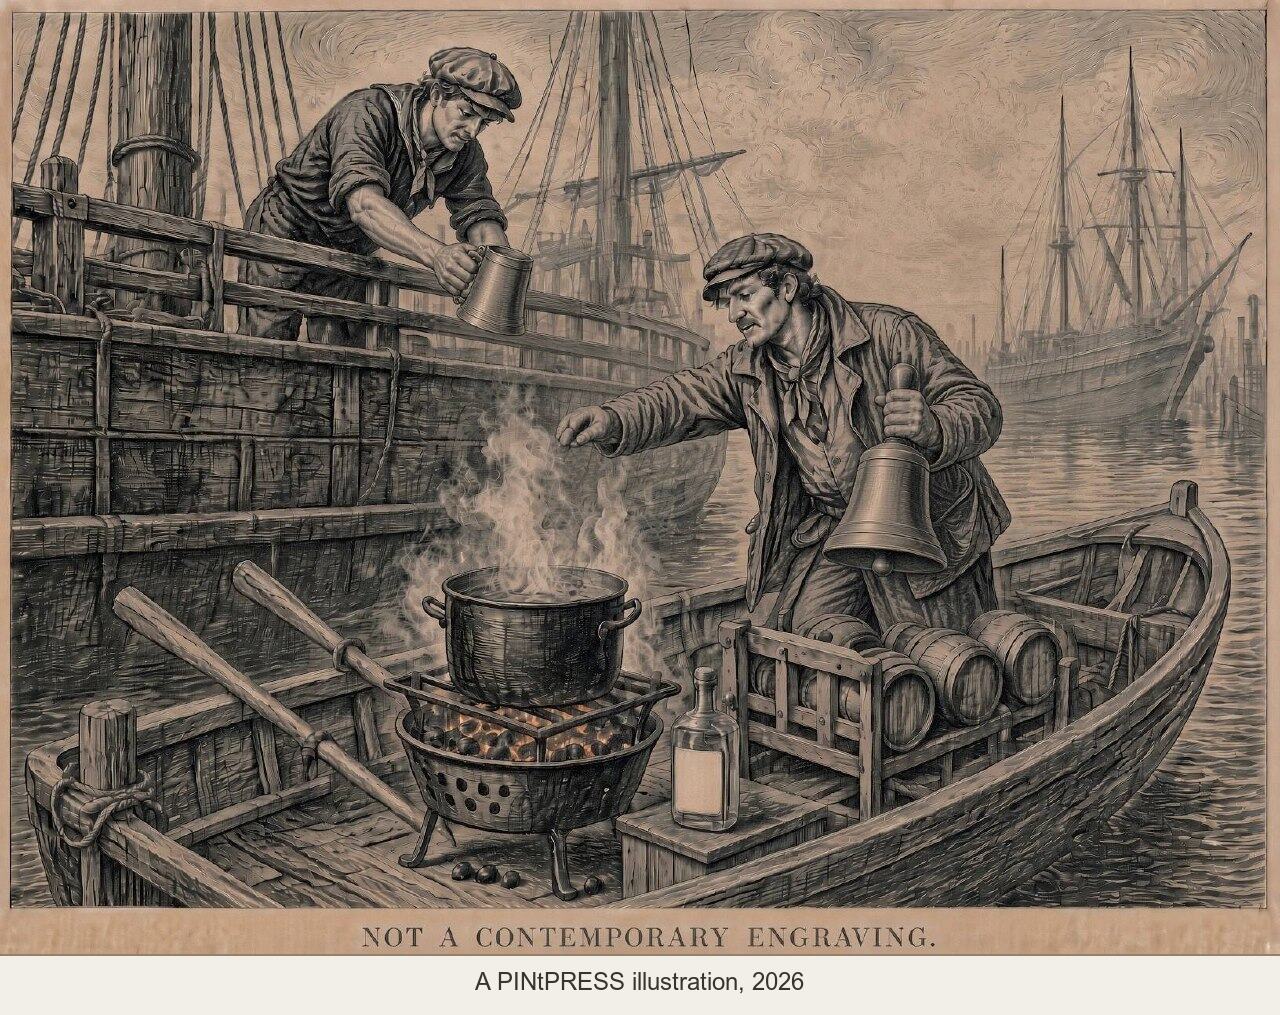
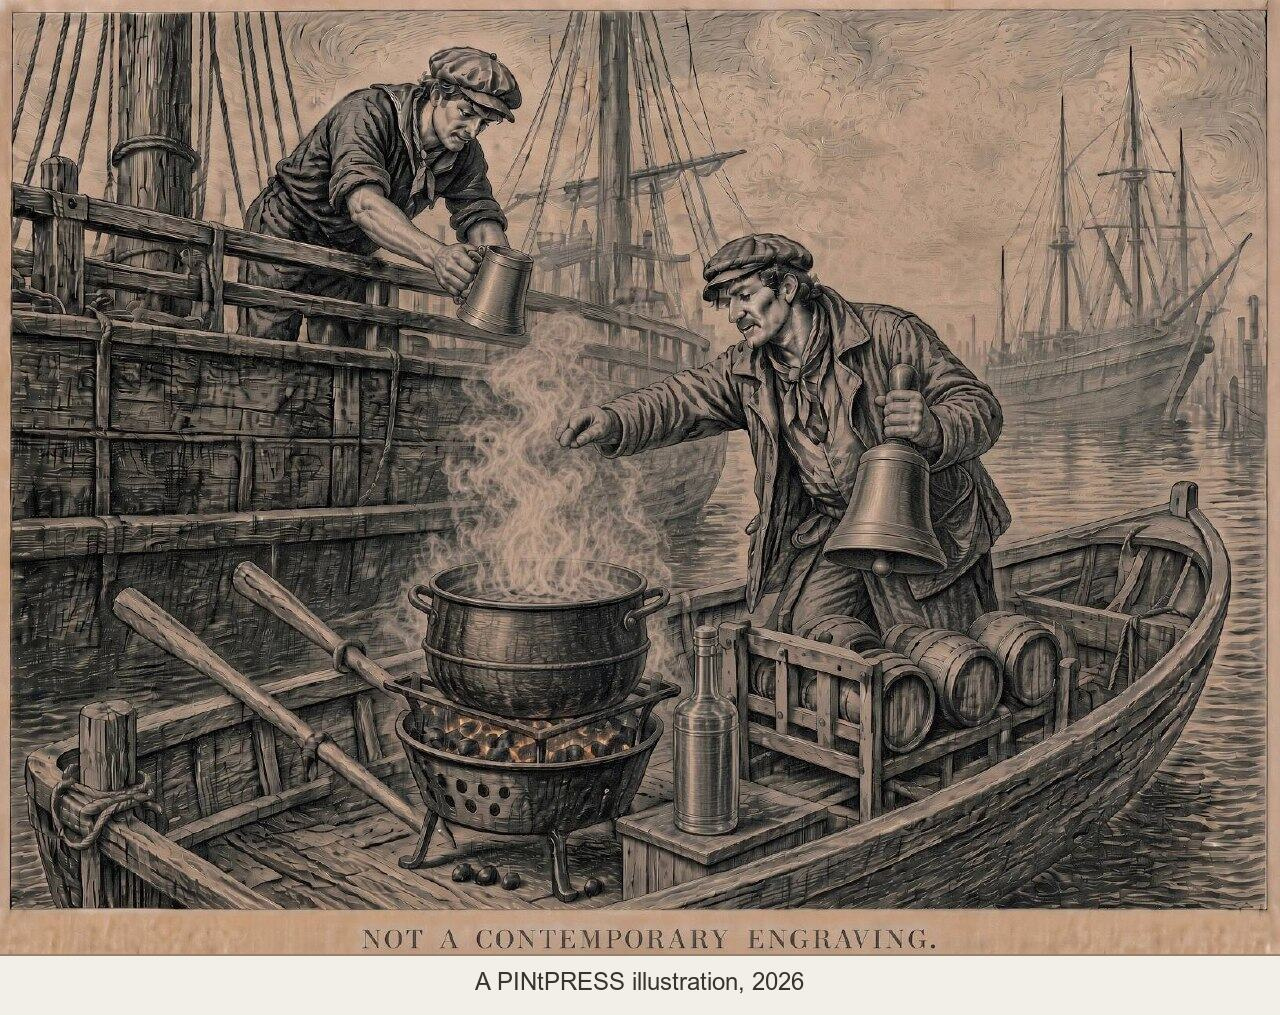
Purl: the gin goes in a long-necked tin bottle
Mayhew carries the gin "in a tin vessel with a long neck, like a
bottle", not the labelled glass one the last pass drew. Caption and alt
text now name it, which was the one fit-out detail held back as
unsupported.

diff --git a/blog/drafts/hot-beer.html b/blog/drafts/hot-beer.html
@@ -67,9 +67,9 @@
     <figure class="wide">
       <picture>
         <source type="image/webp" srcset="https://pintpoint.co.uk/blog/images/hot-beer-purl-man-illustration.webp" />
-        <img src="https://pintpoint.co.uk/blog/images/hot-beer-purl-man-illustration.jpg" alt="A modern illustration drawn in the manner of a Victorian wood engraving. A young purl-man stands in his skiff with his oars shipped, holding up a large hand bell, two small casks on a frame across the stern behind him, a black pot steaming on an iron fire pan drilled with holes, and a bottle on a box beside it. A sailor leans over the side of a collier above him with a tankard. The plate is captioned Not a contemporary engraving, and a line printed beneath it reads A PINtPRESS illustration, 2026." width="1280" height="1015" loading="lazy" />
+        <img src="https://pintpoint.co.uk/blog/images/hot-beer-purl-man-illustration.jpg" alt="A modern illustration drawn in the manner of a Victorian wood engraving. A young purl-man stands in his skiff with his oars shipped, holding up a large hand bell, two small casks on a frame across the stern behind him, a black pot steaming on an iron fire pan drilled with holes, and a long-necked tin bottle standing on a box beside it. A sailor leans over the side of a collier above him with a tankard. The plate is captioned Not a contemporary engraving, and a line printed beneath it reads A PINtPRESS illustration, 2026." width="1280" height="1015" loading="lazy" />
       </picture>
-      <figcaption>A PINtPRESS illustration of 2026. We have not found a contemporary picture of the trade, so this one is drawn to Mayhew&rsquo;s fit-out: the two small casks on a frame in the stern, the iron fire pan drilled all round to admit the air, the black pot over it, and the huge bell he shipped his oars to ring.</figcaption>
+      <figcaption>A PINtPRESS illustration of 2026. We have not found a contemporary picture of the trade, so this one is drawn to Mayhew&rsquo;s fit-out: the two small casks on a frame in the stern, the long-necked tin bottle for the gin, the iron fire pan drilled all round to admit the air, the black pot over it, and the huge bell he shipped his oars to ring.</figcaption>
     </figure>
 
     <p>What was in the cans had already changed by the time Mayhew got there. Purl had been ale with wormwood in it, bitter and medicinal, although Mayhew could not say why that was called purl: he notes only that the philologist Nathan Bailey used the word that way. By 1851, Mayhew writes, &ldquo;the wormwood is unknown; and what is sold under the name of purl is beer warmed nearly to boiling heat, and flavoured with gin, sugar, and ginger&rdquo;. Bailey&rsquo;s dictionary of 1721 had no such trouble with flip, which <a href="https://www.oldandinteresting.com/ale-warmers.aspx" target="_blank" rel="noopener noreferrer">it gives</a> as &ldquo;a sort of Sailor&rsquo;s Drink, made of Ale, Brandy, and Sugar&rdquo;.</p>

diff --git a/r/purl/index.html b/r/purl/index.html
@@ -71,9 +71,9 @@
     <figure class="wide">
       <picture>
         <source type="image/webp" srcset="https://pintpoint.co.uk/blog/images/hot-beer-purl-man-illustration.webp" />
-        <img src="https://pintpoint.co.uk/blog/images/hot-beer-purl-man-illustration.jpg" alt="A modern illustration drawn in the manner of a Victorian wood engraving. A young purl-man stands in his skiff with his oars shipped, holding up a large hand bell, two small casks on a frame across the stern behind him, a black pot steaming on an iron fire pan drilled with holes, and a bottle on a box beside it. A sailor leans over the side of a collier above him with a tankard. The plate is captioned Not a contemporary engraving, and a line printed beneath it reads A PINtPRESS illustration, 2026." width="1280" height="1015" loading="lazy" />
+        <img src="https://pintpoint.co.uk/blog/images/hot-beer-purl-man-illustration.jpg" alt="A modern illustration drawn in the manner of a Victorian wood engraving. A young purl-man stands in his skiff with his oars shipped, holding up a large hand bell, two small casks on a frame across the stern behind him, a black pot steaming on an iron fire pan drilled with holes, and a long-necked tin bottle standing on a box beside it. A sailor leans over the side of a collier above him with a tankard. The plate is captioned Not a contemporary engraving, and a line printed beneath it reads A PINtPRESS illustration, 2026." width="1280" height="1015" loading="lazy" />
       </picture>
-      <figcaption>A PINtPRESS illustration of 2026. We have not found a contemporary picture of the trade, so this one is drawn to Mayhew&rsquo;s fit-out: the two small casks on a frame in the stern, the iron fire pan drilled all round to admit the air, the black pot over it, and the huge bell he shipped his oars to ring.</figcaption>
+      <figcaption>A PINtPRESS illustration of 2026. We have not found a contemporary picture of the trade, so this one is drawn to Mayhew&rsquo;s fit-out: the two small casks on a frame in the stern, the long-necked tin bottle for the gin, the iron fire pan drilled all round to admit the air, the black pot over it, and the huge bell he shipped his oars to ring.</figcaption>
     </figure>
 
     <p>What was in the cans had already changed by the time Mayhew got there. Purl had been ale with wormwood in it, bitter and medicinal, although Mayhew could not say why that was called purl: he notes only that the philologist Nathan Bailey used the word that way. By 1851, Mayhew writes, &ldquo;the wormwood is unknown; and what is sold under the name of purl is beer warmed nearly to boiling heat, and flavoured with gin, sugar, and ginger&rdquo;. Bailey&rsquo;s dictionary of 1721 had no such trouble with flip, which <a href="https://www.oldandinteresting.com/ale-warmers.aspx" target="_blank" rel="noopener noreferrer">it gives</a> as &ldquo;a sort of Sailor&rsquo;s Drink, made of Ale, Brandy, and Sugar&rdquo;.</p>
